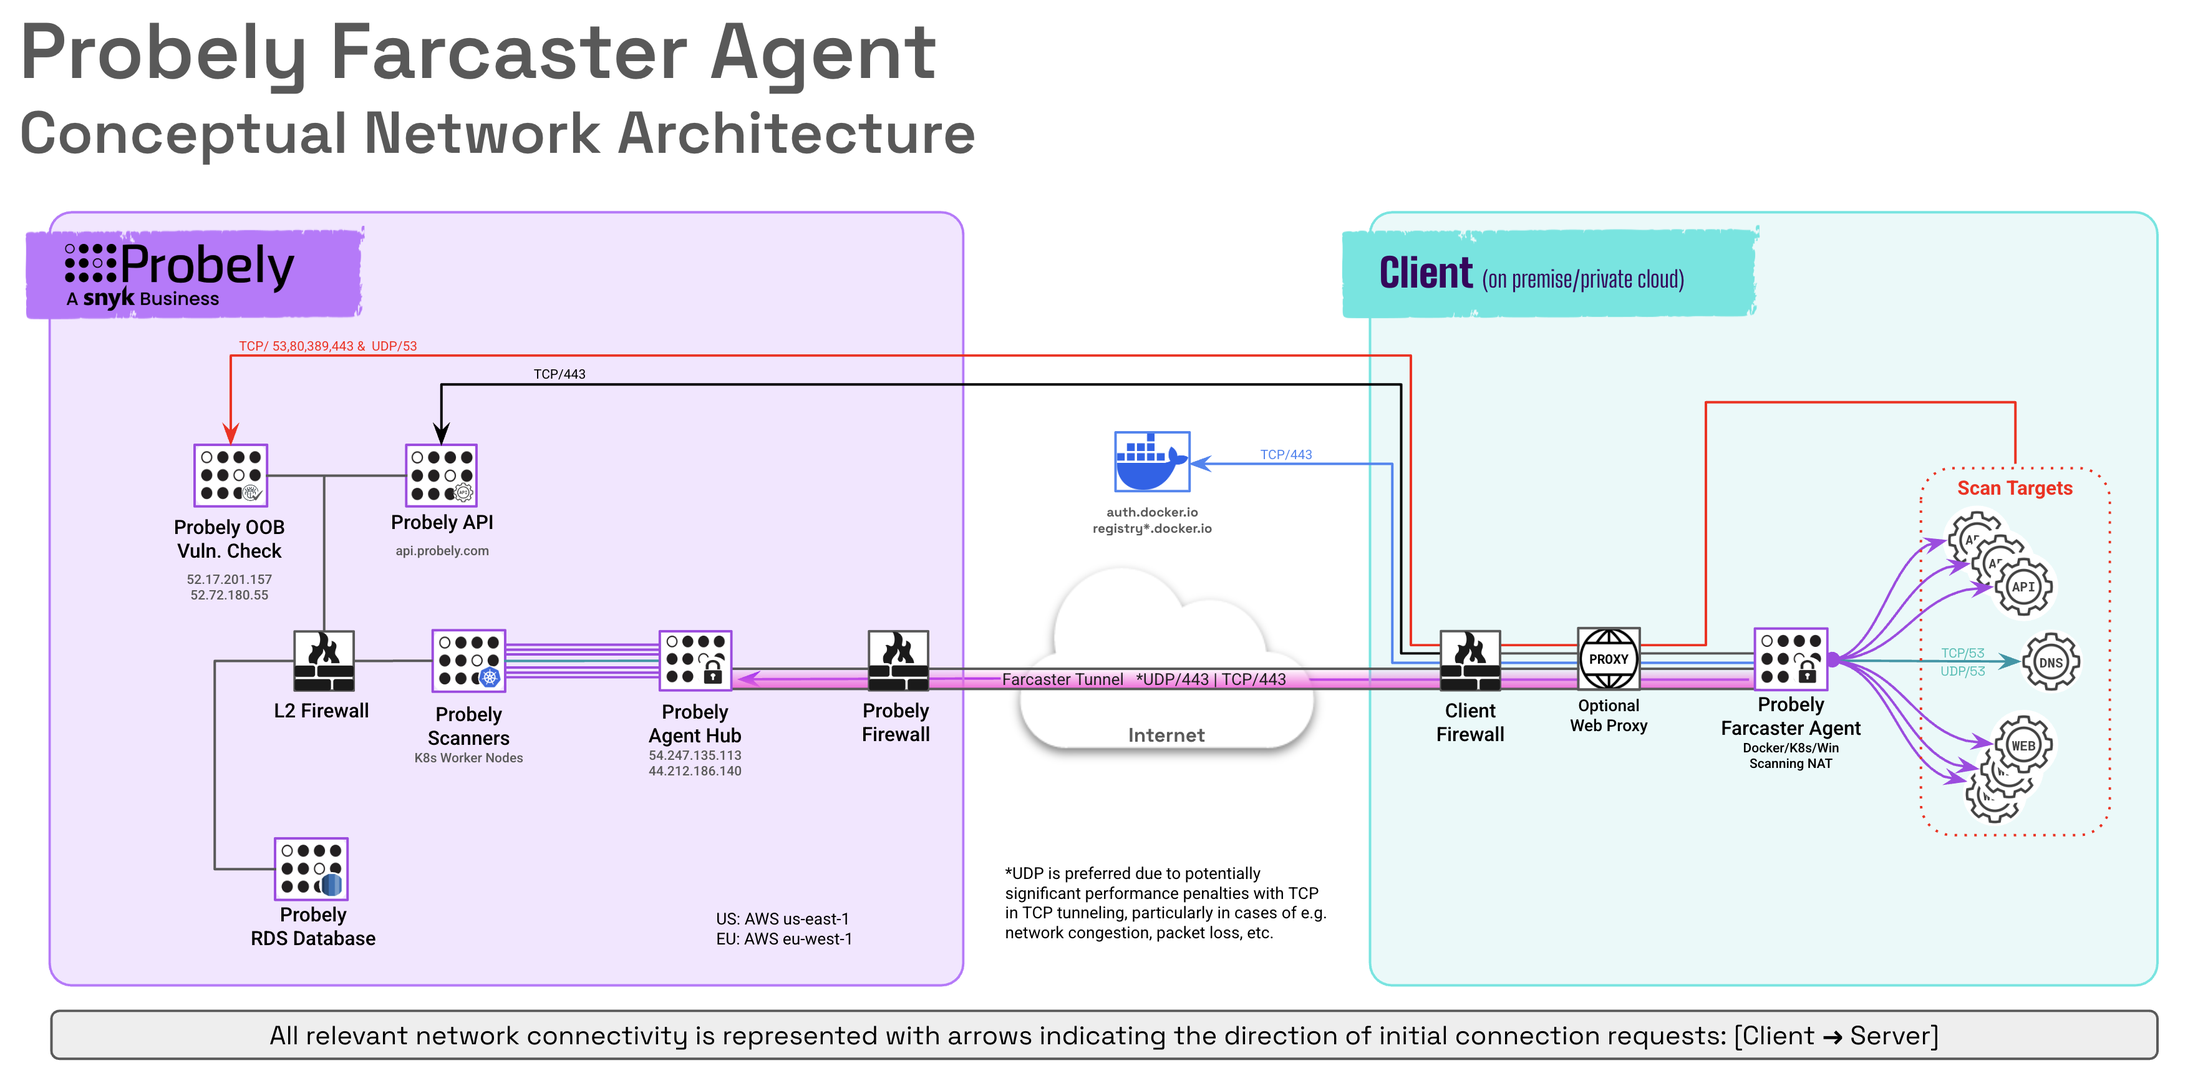
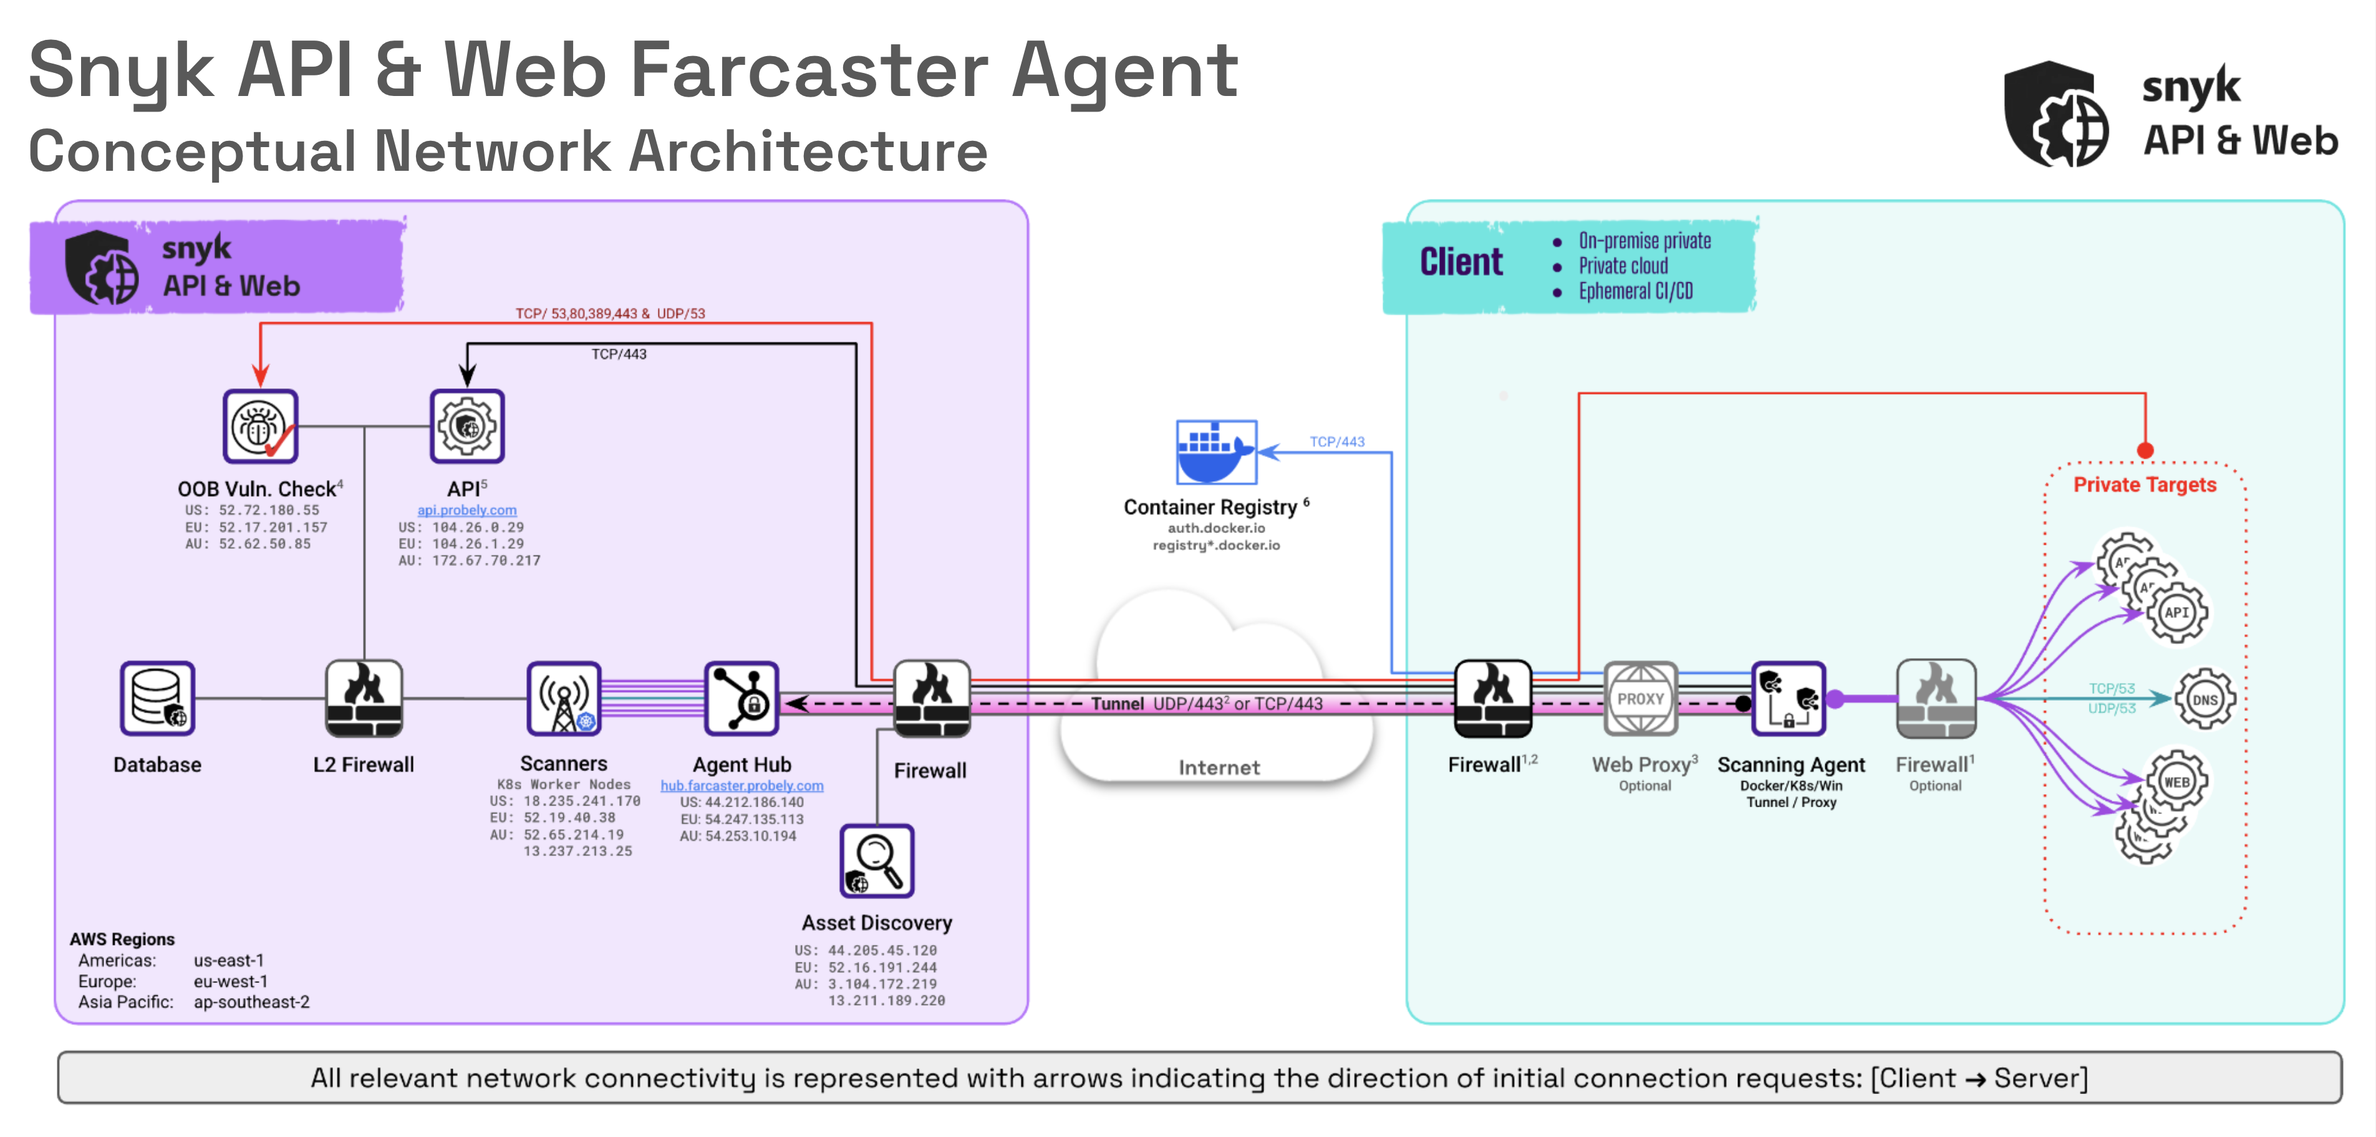
dp Doc updates - 4.11.2025

diff --git a/README.md b/README.md
@@ -12,24 +12,38 @@ The following diagram shows an example network topology for Farcaster agent base
 connectivity from a private client network (on-premise, private cloud, CI/CD, etc.) to
 the Probely Cloud infrastructure.
 
+# Table of Contents
+- [Network Architecture Overview](#network-architecture-overview)
+- [System Resources](#system-resources)
+- [Network Requirements](#network-requirements)
+- [Installation](#installation)
+  - [Required software](#required-software)
+  - [System checks](#system-checks)
+- [Launch the agent](#launch-the-agent)
+  - [Configuration Options](#configuration-options)
+  - [Additional Windows Options](#additional-windows-options)
+  - [Windows Service Control](#windows-service-control)
+
+# Network Architecture Overview
 ![Farcaster high-level network architecture](./assets/img_Farcaster_Network_Overview.png)
+
+  ## Architecture Notes
+  1. Client edge security devices (FW, IPS, WAF, etc.) should be configured to whitelist Snyk API & Web Scanner and Asset Discovery service IPs.  Internal security devices (FW, IPS, WAF, etc.) should be configured to whitelist any scanning agent IPs.
+  2. Firewall protocol inspection must be disabled for Farcaster Agent connectivity.  TLS Inspection (e.g NGFW or CASB) is not currently supported and should be disabled for Agent connectivity rules in any edge/cloud security devices or services.
+  3. If required, Farcaster Agent will support tunnel connectivity via proxy, however performance may be impacted.  
+  4. OOB Vulnerability checks are utilized to verify vulnerabilities that allow an attacker to initiate a connection from the target to a remotely controlled ip address / server (e.g. log4shell)
+  5. api.probably.com IP addresses may be subject to change, we recommend configuring firewall rules to allow Scanning agents outbound https access based on DNS name, or allowing outbound communications to all https destinations.
+  6. Private container registries can be utilized if required.
 
 # System Resources
 
-The Agent is a Docker container requiring very few resources, as detailed in the following table.
+  The Agent is a Docker container requiring very few resources, as detailed in the following table.
 
-| CPU     | RAM     | Storage     |
-| ------- | ------- | ----------- |
-| 1       | 512 MB  | 1 GB        |
+  | CPU     | RAM     | Storage     |
+  | ------- | ------- | ----------- |
+  | 1       | 512 MB  | 1 GB        |
 
 # Network Requirements
-
-**NOTE**: You do not need to manually add firewall rules on most networks.
-Some rules may be required if the agent runs on a network with strict network policies (e.g., all **output** traffic
-is denied by default).
-
-To specify a port range, we use the `:` character. For example, `1024:2048`
-means: *all ports from 1024 to 2048, inclusive*.
 
 | Name           | Source     | Destination                          | Protocol     | Source Port          | Destination Port |
 | -------------- | ---------- | -------------------------------------| ------------ | -------------------- | -------------------- |
@@ -43,139 +57,146 @@ means: *all ports from 1024 to 2048, inclusive*.
 
 Notes:
 
-1. `<agent-ip>` is the internal IP of the machine on your network where Probely's Farcaster Agent is running. The agent uses it to communicate with the Probely server.
-2. `<target-ip>` is the internal IP of your web application.
-If your target is configured to use internal extra-hosts, include their IPs here.
-The same goes for the target login URL if a different internal web application serves it.
-3. `<target-port>` is the service port of the server of your web application.
-Typical values are 80 and 443.
-4. The IP addresses of these hosts are subject to change. We recommend allowing
-web access for the agent VM (HTTP and HTTPS ports). If this is not possible, the agent
-will use an HTTP proxy if you set the `HTTP_PROXY` variable.
-5. At this time, the hosts are: `registry.docker.io` and `registry-1.docker.io`
-6. This server receives connections from potentially vulnerable systems on your infrastructure.
-It is used, for example, to detect "Log4Shell"-type vulnerabilities.
+  1. `<agent-ip>` is the IP address of the machine that the Farcaster Agent is installed on (e.g. the machine running Docker, the Kubernetes proxy IP for the pod, etc.) 
+  2. `<target-ip>` are the internal IPs of your web application or API targets. If your target requires authentication via another host or your targets are configured to use extra hosts, include those IPs here as well.
+  3. `<target-port>` is the service port of the server of your web application (typically 80, 443, 8080, 8443, etc.)
+  4. The IP addresses of these hosts are subject to change. We recommend allowing web access for the agent VM to all external destinations on tcp/443 (https). If this is not possible, the agent will use an HTTP proxy if you set the `HTTP_PROXY` variable.
+  5. At this time, the hosts are: `registry.docker.io` and `registry-1.docker.io`
+  6. This server receives connections from potentially vulnerable systems on your infrastructure. It is used, for example, to detect "Log4Shell"-type vulnerabilities. These connections are optional, but may impact the ability of Snyk API & Web to verify related vulnerabilitites if the connections are not allowed.
 
 # Installation
 
-The agent runs on a Docker container. It should work on any system with a Docker installation.
+  The Farcaster agent can be deployed as a container in Docker or Kubernetes, or as Windows service.
 
-The agent needs a token to connect to Probely's network.
+  The agent needs a token to connect to Probely's network.
 
-> If you do not have an agent token, you can create one in the
-> [Scanning Agents](https://plus.probely.app/scanning-agents/) management area.
+  > If you do not have an agent token, you can create one in the
+  > [Scanning Agents](https://plus.probely.app/scanning-agents/) management area.
 
-## Required software
+ ## Required software
 
-Both [Docker](https://docs.docker.com/engine/install/) and
-[Docker Compose](https://docs.docker.com/compose/install/) must be installed.
-Please make sure those requirements are met.
+  ### Docker
+  Both [Docker](https://docs.docker.com/engine/install/) and [Docker Compose](https://docs.docker.com/compose/install/) must be installed.
 
-### Kubernetes (optional)
-We provide an example Agent Kubernetes deployment
-[here](https://github.com/probely/farcaster-onprem-agent/tree/main/contrib/kubernetes/).
-If you need help setting the Agent up on a Kubernetes cluster, please contact
-Probely's support team.
+  ### Kubernetes 
+   We provide an example Agent Kubernetes deployment [here](https://github.com/probely/farcaster-onprem-agent/tree/main/contrib/kubernetes/).
 
-## System checks
-* Before installing the agent container, check that your host can run it:
-  ```shell
-  curl -LO https://raw.githubusercontent.com/Probely/farcaster-onprem-agent/main/farconn/host-check.sh
-  chmod +x host-check.sh
-  ./host-check.sh
-  ```
+   If you need help setting the Agent up on a Kubernetes cluster, please contact Probely's support team.
 
-  Verify that the checks succeeded:
-  ```shell
-  Checking if Docker is installed...                              [ok]
-  Launching test container...                                     [ok]
+  ### Windows
+  Download the latest Window binary from the releases page [here](https://github.com/Probely/farcaster-onprem-agent/releases)
+
+ ## System checks
+  Before installing the agent container on a Linux system, you can check that your host can run it by executing the following [script](https://raw.githubusercontent.com/Probely/farcaster-onprem-agent/main/farconn/host-check.sh) or run the command below:
+    ```shell
+    curl -LO https://raw.githubusercontent.com/Probely/farcaster-onprem-agent/main/farconn/host-check.sh
+    chmod +x host-check.sh
+    ./host-check.sh
+    ```
+
+    Verify that the checks succeeded:
+    ```shell
+    Checking if Docker is installed...                              [ok]
+    Launching test container...                                     [ok]
   ```
 
 ## Launch the agent
-* Use the `docker-compose.yml` you saved in **Step 1.** of
- [How to install a Scanning Agent](https://help.probely.com/en/articles/6503388-how-to-install-a-scanning-agent).
+  * Use the `docker-compose.yml` you saved in **Step 1.** of
+  [How to install a Scanning Agent](https://help.probely.com/en/articles/6503388-how-to-install-a-scanning-agent).
 
-* Start the Agent:
+  * Start the Agent:
 
-  ```shell
-  docker-compose up -d
-  ```
+    ```shell
+    docker-compose up -d
+    ```
 
-* Check that the Agent connected successfully
+  * Check that the Agent connected successfully
 
-  After starting the Agent, it should link-up with Probely. Run the following command:
-  ```shell
-  docker logs probely-agent
-  ```
+    After starting the Agent, it should link-up with Probely. Run the following command:
+    ```shell
+    docker logs probely-agent
+    ```
 
-  If everything is running correctly, you should see output similar to:
-  ```
-  Downloading agent configuration ... done
-  Deploying agent configuration   ... done
-  Starting local DNS resolver     ... done
-  Setting HTTP proxy rules        ... done
-  Connecting to Probely (via UDP) ... done
-  Setting local gateway rules     ... done
-  Starting WireGuard gateway      ... done
+    If everything is running correctly, you should see output similar to:
+    ```
+    Downloading agent configuration ... done
+    Deploying agent configuration   ... done
+    Starting local DNS resolver     ... done
+    Setting HTTP proxy rules        ... done
+    Connecting to Probely (via UDP) ... done
+    Setting local gateway rules     ... done
+    Starting WireGuard gateway      ... done
 
-  Running...
+    Running...
   ```
 
   Once up and running, the Agent in the Docker container knows the URL or IP of the target to scan from the target configuration in Probely. The Agent communicates with Probely to get this information before starting a scan.
   Learn more about [how to scan internal applications with a Scanning Agent](https://help.probely.com/en/articles/4615595-how-to-scan-internal-applications-with-a-scanning-agent).
 
-### Connection issues
-  If the Agent is not connecting to Probely, please ensure that your [firewall](#network-requirements) is properly configured.
+ ### Configuration Options
+   The following configuration options can be set via environment variables when running the agent
 
-  Alternatively, the agent can use a proxy to connect to Probely using standard environment variables. The agent honors `HTTP_PROXY`, `HTTPS_PROXY`, and `NO_PROXY` for outbound connections. HTTPS proxies are supported. `ALL_PROXY` is honored for WebSocket connections (ws://, wss://) via the standard library HTTP transport, but not for raw TCP connections.
-  While the agent can use an HTTP proxy or a direct TCP connection to Probely, this can cause poor network performance. For more information, see this article about the [TCP Meltdown](https://web.archive.org/web/20220103191127/http://sites.inka.de/bigred/devel/tcp-tcp.html) problem. We **strongly recommend** that you allow the agent to connect to `54.247.135.113`,  `44.212.186.140`, and `54.253.10.194` on `UDP` port `443`.
+  | Required/Optional           | Environment Variable     | Description |
+  | -------------- | ---------- | -------------------------------------|
+  |  Req   | FARCASTER_AGENT_TOKEN   | Agent API Key                |
+  |  Opt   | FARCASTER_API_URL                 | url of API server                |
+  |  Opt   | FARCASTER_DEBUG_LEVEL          | Logging level 0, 1, or 2               |
+  |  Opt   | FARCASTER_FORCE_TCP                 | TRUE, Skip UDP connectivity                |
+  |  Opt   | FARCASTER_SKIP_CERT_VERIFY          | TRUE, Skip Certificate verification for testing HTTPS inspection (FW, CASB, etc.)                |
+  |  Opt   | HTTP_PROXY                    | Use the configured proxy address for all connections                |
 
-### Unsuccessful UDP connection issues
-   If the Agent is not connecting through UDP, and you are getting the log:
+ ### Additional Windows Options
+  The Farcaster Agent can be run standalone or installed as a service in Windows, and controlled via environment variables or using the following command line switches as follows: 
 
-   ```
-   ...
-   Connecting to Probely (via UDP)	... unsuccessful
-   Configuring fallback TCP tunnel	... done
-   Connecting to Probely (via TCP)	... done
-   ...
-   ```
+    farcasterd -t <agent token> [optional switches]
 
-   It's because the UDP connection is being blocked.
+  | Required/Optional           | Switch    | Descrription |
+  | -------------- | ---------- | -------------------------------------|
+  | Req | -t, --token string     | Authentication token. Can either be the path to the token file, or the token itself
+  | Opt |   --api-url string     | Override the default API URL
+  | Opt |   --check-token        | Check if the token is valid and exit 
+  | Opt |   --control string     | Enable the control API on the Windows named pipe
+  | Opt |   -d, --debug          | Enable debug logging
+  | Opt |    --group string      | Group to grant access to the control API
+  | Opt |   --help               | help for farcasterd
+  | Opt |   --ipv6               | Enable IPv6/AAAA DNS query resolution
+  | Opt |   -l, --log string     | Log file path. Log to stderr if not specified
+  | Opt |   --proxy-names        | Use hostnames instead of IPs in proxy CONNECT/SOCKS5 requests
+  | Opt |   -v, --version        | Print the version and exit
 
-   To confirm if nothing is blocking the UDP connections, you can set up a UDP server using the following script **outside your network** to "echo" the received messages:
+ #### Windows Service Control
+    farcasterd service install -t [Agent token]   Install Farcasterd Service
+    farcasterd servive start | stop               Start or Stop Farcasterd Service
+    farcasterd service remove                     Uninstall Farcasterd Service  
 
-```python
-import socket
 
-def udp_server(host='0.0.0.0', port=12345):
-    sock = socket.socket(socket.AF_INET, socket.SOCK_DGRAM)
-    sock.bind((host, port))
-    print(f"UDP server listening on {host}:{port}")
+# Troubleshooting
+  Connection issues typically fall into one or more of the following categories:
 
-    while True:
-        data, client_address = sock.recvfrom(1024)
-        print(f"Received message from {client_address}: {data.decode()}")
-        response = f"Received your message: {data.decode()}"
-        sock.sendto(response.encode(), client_address)
+  ### Unable to download Agent configuration
+  - Agent is unable to connect to api.probely.com to download a configuration.
+   - Ensure the host system can resolve api.probely.com and connect via https using e.g. curl or chrome.
+   - Check to ensure proxy settings are not required for Agent connectivity.
+   - CASB / HTTPS Inpection capabilitites which intercept the HTTPS connection for decode and will result 
+  in the Agent being unable to verify the api.probely.com tls cerfificate.  We recommend configuring the 
+  device / servive performing HTTPS interception to allow the Farcaster Agent to connect directly to 
+  api.probely.com and the Farcaster hub, if that i snot possible tls cert verificationcan be disabled with 
+  the FARCASTER_SKIP_CERT_VERIFY=TRUE environment variable.
 
-if __name__ == "__main__":
-    udp_server()
-```
+  ### Unable to connect (UDP/443 or UDP & TCP/443)
+    - If firewalls are not permitting UDP/443 outbound from the agent to the appropriate Farcaster hub, as well as the appropriate return traffic, the connection will fall back to TCP/443 and the agent will show "Connected with Issues" in the Snyk API & Web UI.   
+    - If firewalls are not permitting UDP/443 or TCP/443 from the Agent to the Farcaster hub the agent will not be able to connect.
+    - In some cases protocol level firewall rules (e.g allow HTTPS protocol ONLY over TCP/443, allow QUIC prorocol ONLY over UDP/443, or allow "Standard Protocols only") the initial UDP/TCP handshake will be successful, but subsequent communications over UDP/443 or TCP/443 will be blocked as the traffic is not using standard protocols.  Protocol based rules should be disabled or set to allow the protocol identified by the firewall (typically wireguard) for Agent communications.
 
-And test it with:
+  Please refer to [network requirements](#network-requirements) for Agent connectivity requirements.
 
-```shell
-$ echo "AAAAAA" | nc -w 3 -u xx.xx.xx.xx 12345
-Received your message: AAAAAA
-```
+  ### Proxy Configuration Required
+    The agent can use a proxy to connect to Probely using standard environment variables. The agent honors `HTTP_PROXY`, `HTTPS_PROXY`, and `NO_PROXY` for outbound connections. HTTPS proxies are supported. `ALL_PROXY` is honored for WebSocket connections (ws://, wss://) via the standard library HTTP transport, but not for raw TCP connections.
 
-You should test large messages:
+  ### Performance Issues
+    While the agent can use an HTTP proxy or a direct TCP connection to Probely, this can cause poor network performance. For more information, see this article about the [TCP Meltdown](https://web.archive.org/web/20220103191127/http://sites.inka.de/bigred/devel/tcp-tcp.html) problem. We **strongly recommend** that you allow the agent to connect to `54.247.135.113`,  `44.212.186.140`, and `54.253.10.194` on `UDP` port `443`.
 
-```shell
-$ python3 -c 'print("A"*2000)' | nc -w 3 -u xx.xx.xx.xx 12345
-Received your message: AAAAAAAAAAAAAAAAAAAAAAAAAAAAAAAAAAAAAAAAAAAAAAAAAAAAAAAAA....
-```
+
 
 # Building from source
 
@@ -195,10 +216,10 @@ root.**
 ```shell
 VERSION=0.0.0 make build-local
 ```
-
-Remember to reference your custom-built Docker images on the `docker-compose.yml`
-file or Kubernetes pod/deployment manifest you configure. If not specified,
-the default Probely docker Agent images are used.
+# Container Images
+Remember to reference your custom-built Docker images in your docker command, in your `docker-compose.yml`
+file,  or Kubernetes pod/deployment manifest.  If not specified,
+the default Probely docker Agent images are used.  Internal repositories can be used by pushing the appropriate images and modifying docker, docker compose, or Kubernetes manifests appropriately.
 
 # Security considerations
 
@@ -232,3 +253,8 @@ components, such as [WireGuard](https://www.wireguard.com/).
 * The Agent has minimal network requirements. Typical network requirements,
 such as public IP addresses and complex firewall rules, are unnecessary or minimized.
 * The Agent uses few hardware resources and is designed to scale easily.
+
+**Internal Firewalling**
+
+The agent may be installed in e.g. a partner DMZ or other firwalled segment to allow complete client control of the targets that can be accessed from the Agent, however, please keep in mind rules must allow connectivity for all Snyk API & Web targets, as well as any ancillary services and hosts required by those web apps and APIs.
+
